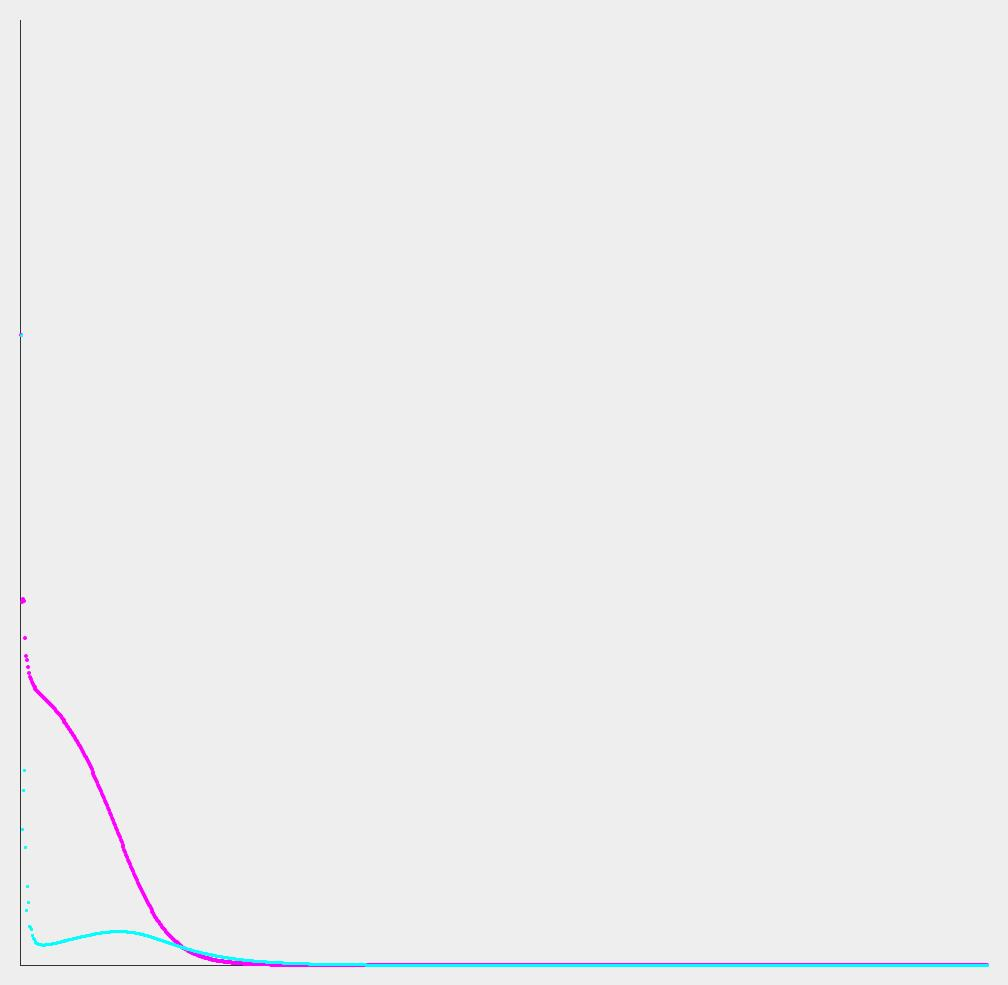
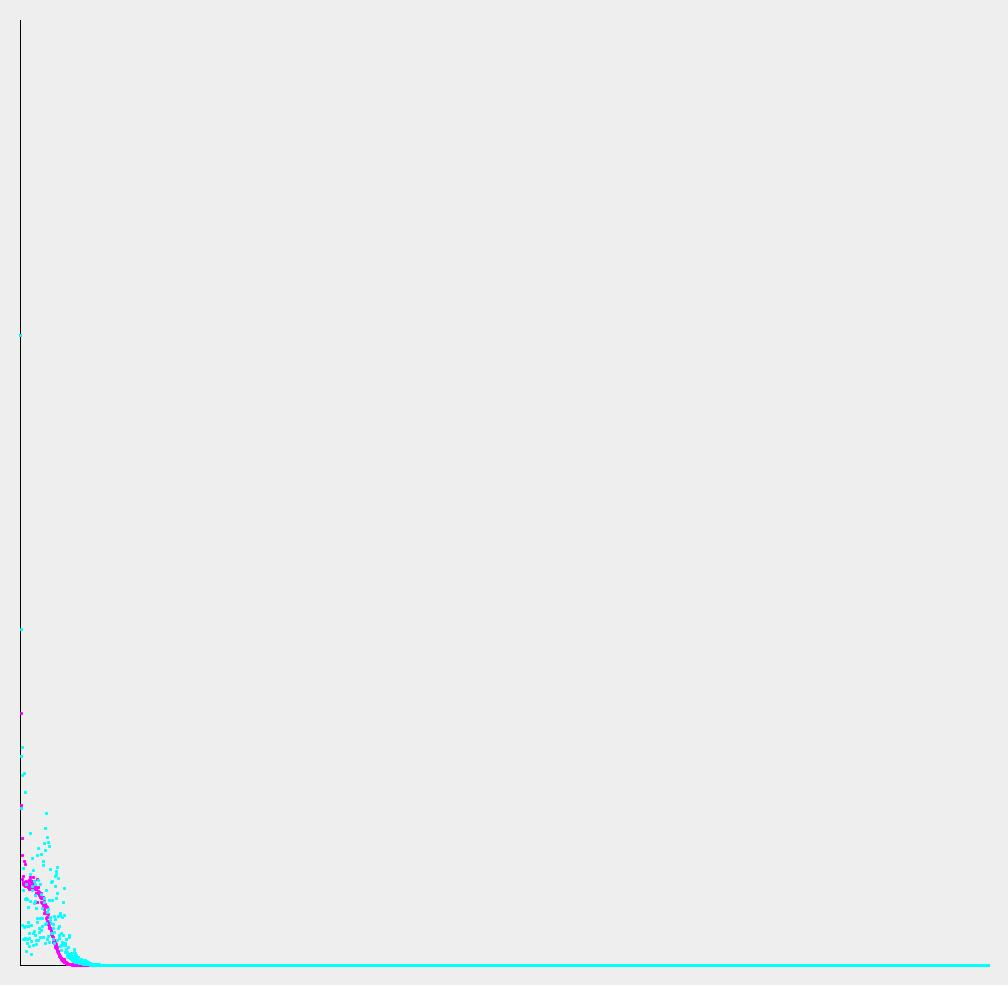
Add minibatch implementation

diff --git a/src/main/java/cz/muni/fi/network/Main.java b/src/main/java/cz/muni/fi/network/Main.java
@@ -29,8 +29,8 @@ public class Main {
 
         //    Num Inputs,  Num Hidden,  Num Outputs, Num Learning steps, Show Graph, Output image name
         MLP mlp = new MLP(1, 2, 1, 1000, true, "2",
-                //Learning rate, Use Glorot & Bengio weight init? ,  Print status frequency, Momentum influence, Frequency of decreasing learning rate, Is dropout on
-                0.15, false, 10, 0.65, 30, true);
+                //Learning rate, Use Glorot & Bengio weight init? ,  Print status frequency, Momentum influence, Frequency of decreasing learning rate, Is dropout on, Is minibatch on, Minibatch size
+                0.15, false, 10, 0.65, 30, true, true, 10);
 
         mlp.training(samples);
 
@@ -49,10 +49,20 @@ public class Main {
         samples.add(new Sample(new double[]{0, 1}, new double[]{1}));
         samples.add(new Sample(new double[]{0, 0}, new double[]{0}));
 
+        samples.add(new Sample(new double[]{1, 1}, new double[]{0}));
+        samples.add(new Sample(new double[]{1, 0}, new double[]{1}));
+        samples.add(new Sample(new double[]{0, 1}, new double[]{1}));
+        samples.add(new Sample(new double[]{0, 0}, new double[]{0}));
+
+        samples.add(new Sample(new double[]{1, 1}, new double[]{0}));
+        samples.add(new Sample(new double[]{1, 0}, new double[]{1}));
+        samples.add(new Sample(new double[]{0, 1}, new double[]{1}));
+        samples.add(new Sample(new double[]{0, 0}, new double[]{0}));
+
         //    Num Inputs,  Num Hidden,  Num Outputs, Num Learning steps, Show Graph, Output image name
-        MLP mlp = new MLP(2, 2, 1, 1000, true, "1",
-                //Learning rate, Use Glorot & Bengio weight init? ,  Print status frequency, Momentum influence, Frequency of decreasing learning rate,Is dropout on
-                0.15, false, 10, 0.5, 15, true);
+        MLP mlp = new MLP(2, 2, 1, 3000, false, "1",
+                //Learning rate, Use Glorot & Bengio weight init? ,  Print status frequency, Momentum influence, Frequency of decreasing learning rate,Is dropout on, Is minibatch on, Minibatch size
+                0.3, false, 10, 0.5, 30, false, true, 10);
 
         mlp.training(samples);
 
@@ -105,7 +115,7 @@ public class Main {
 
         for (Movie movie : movies) {
             movie.getActors().removeAll(removedActors);
-            if(removedDirectors.contains(movie.getDirector())) {
+            if (removedDirectors.contains(movie.getDirector())) {
                 movie.setDirector(null);
             }
         }
@@ -125,7 +135,7 @@ public class Main {
 
         int done = 0;
         for (Movie movie : movies) {
-            if(done++ == trainingSize) {
+            if (done++ == trainingSize) {
                 break;
             }
 
@@ -136,14 +146,14 @@ public class Main {
             for (String actorId : movie.getActors()) {
                 int i = actors.indexOf(new Person(actorId));
 
-                if(i == -1) {
+                if (i == -1) {
                     ++missingActors;
                 } else {
                     inputs[i] = 1;
                 }
             }
 
-            if(useDummyNeurons) {
+            if (useDummyNeurons) {
                 int peopleNeurons = desiredActorCount + desiredDirectorsCount;
                 for (int i = peopleNeurons; i < peopleNeurons + missingActors; i++) {
                     inputs[i] = 1;
@@ -151,13 +161,13 @@ public class Main {
             }
 
             int directorIndex = directors.indexOf(new Person(movie.getDirector()));
-            if(directorIndex == -1) {
+            if (directorIndex == -1) {
                 inputs[inputs.length - 1] = 1;
             } else {
                 inputs[desiredActorCount + directorIndex] = 1;
             }
 
-            if(!useDummyNeurons && (directorIndex == -1 || missingActors > 0)) {
+            if (!useDummyNeurons && (directorIndex == -1 || missingActors > 0)) {
                 continue;
             }
 
@@ -168,15 +178,15 @@ public class Main {
 
         //    Num Inputs,  Num Hidden,  Num Outputs, Num Learning steps, Show Graph, Output image name
         MLP mlp = new MLP(outputSize, 40, 1, 1000, true, "7",
-                //Learning rate, Use Glorot & Bengio weight init? ,  Print status frequency, Momentum influence, Frequency of decreasing learning rate, Is dropout on
-                0.2, false, 30, 0.7, 80, true);
+                //Learning rate, Use Glorot & Bengio weight init? ,  Print status frequency, Momentum influence, Frequency of decreasing learning rate, Is dropout on, Is minibatch on, Minibatch size
+                0.2, false, 30, 0.7, 80, true, true, 10);
         mlp.training(samples);
 
-        int[] diffs = new int[] {0,0,0,0};
+        int[] diffs = new int[]{0, 0, 0, 0};
 
         for (int i = trainingSize; i < movies.size(); i++) {
 
-            if(i == trainingSize) {
+            if (i == trainingSize) {
                 System.out.println("***");
                 System.out.println((movies.size() - trainingSize) + "movies not from the training set:");
                 System.out.println("***");
@@ -198,11 +208,11 @@ public class Main {
             System.out.printf("Movie : %s, rating: %.1f%n", movies.get(i).getName(), rating);
             System.out.printf("Predicted rating: %.1f%n%n", predictedRating);
 
-            if(Math.abs(rating - predictedRating) < 0.5) {
+            if (Math.abs(rating - predictedRating) < 0.5) {
                 ++diffs[0];
-            } else if(Math.abs(rating - predictedRating) < 1) {
+            } else if (Math.abs(rating - predictedRating) < 1) {
                 ++diffs[1];
-            } else if(Math.abs(rating - predictedRating) < 2) {
+            } else if (Math.abs(rating - predictedRating) < 2) {
                 ++diffs[2];
             } else {
                 ++diffs[3];
@@ -223,6 +233,6 @@ public class Main {
     }
 
     private static float percent(int x, int total) {
-        return x/(float)total * 100f;
+        return x / (float) total * 100f;
     }
 }

diff --git a/src/main/java/cz/muni/fi/network/MLP.java b/src/main/java/cz/muni/fi/network/MLP.java
@@ -5,7 +5,6 @@ import javax.swing.*;
 import java.awt.image.BufferedImage;
 import java.io.File;
 import java.io.IOException;
-import java.util.ArrayList;
 import java.util.Collections;
 import java.util.List;
 import java.util.Random;
@@ -23,9 +22,12 @@ public class MLP {
     private String imgName;
     public boolean showGraph;
     private int decLearningRateFreq;
+    private int minibatchSize;
     private double hiddenWeights;
     private double outputWeights;
     private boolean dropoutOn;
+    private boolean minibatchOn;
+    private Random r = new Random();
 
     public Layer outputLayer;
     public Layer hiddenLayer;
@@ -37,17 +39,19 @@ public class MLP {
 
     public MLP(int numInputNeurons, int numHiddenNeurons, int numOutputNeurons, int numLearningSteps, boolean showGraph, String imgName,
                double learningRate, boolean glorotBengioWeights, int printStatusFreq, double momentumInfluence, int decLearningRateFreq,
-               boolean dropoutOn) {
+               boolean dropoutOn, boolean minibatchOn, int minibatchSize) {
         System.out.println("----------------------------- NEW MLP INIT -----------------------------");
         System.out.println("----------------------------------  batch" + imgName + "  -----------------------------------");
         System.out.println("-----------------------------------  -----------------------------------");
         System.out.println("-----------------------------------  -----------------------------------");
         System.out.println("Num learning steps: " + numLearningSteps);
         System.out.println("Learning rate: " + learningRate);
+        System.out.println("Frequency of decreasing learning rate: " + decLearningRateFreq);
         System.out.println("Glorot and Bengio Weights: " + glorotBengioWeights);
         System.out.println("Momentum influence: " + momentumInfluence);
         System.out.println("Print status frequency: " + printStatusFreq);
-        System.out.println("Frequency of decreasing learning rate: " + decLearningRateFreq);
+        System.out.println("Dropout " + (dropoutOn ? "ON" : "OFF"));
+        System.out.println("Minibatch " + (minibatchOn ? "ON " + minibatchSize + " size" : "OFF"));
         if (glorotBengioWeights) {
             this.hiddenWeights = Math.sqrt(6 / (numInputNeurons + numOutputNeurons));
             this.outputWeights = Math.sqrt(6 / (numHiddenNeurons + 1));
@@ -61,6 +65,8 @@ public class MLP {
         this.momentumInfluence = momentumInfluence;
         this.dropoutOn = dropoutOn;
         this.imgName = imgName;
+        this.minibatchOn = minibatchOn;
+        this.minibatchSize = minibatchSize;
         this.decLearningRateFreq = decLearningRateFreq;
         this.learningRate = learningRate;
         this.printStatusFreq = printStatusFreq;
@@ -83,13 +89,20 @@ public class MLP {
         f = prepareGraph();
         initWeights();
         int learningStep = 0;
-        double invertedSampleCount = 1d / samples.size();
+        double invertedSampleCount = minibatchOn ? 1d / minibatchSize : 1d / samples.size();
+        double preprocessed[] = new double[outputLayer.outputs.length];
+        int batchIteration = 0;
+        List<Sample> minibatch = samples;
         do {
             resetErrorDsRespectW();
-
-            List<Sample> minibatch = new ArrayList<>(samples);
-            Collections.shuffle(minibatch, new Random(learningStep));
-            minibatch = samples.subList(0, 100);
+            if (minibatchOn) {
+                if ((batchIteration + 1) * minibatchSize > samples.size()) {
+                    Collections.shuffle(samples, r);
+                    batchIteration = 0;
+                }
+                minibatch = samples.subList(batchIteration * minibatchSize, (batchIteration + 1) * minibatchSize);
+                batchIteration++;
+            }
             for (Sample sample : minibatch) {
                 feedForward(sample.inputs, false);
                 for (int i = 0; i < outputLayer.outputs.length; i++) {
@@ -97,7 +110,6 @@ public class MLP {
                     errors[learningStep] += invertedSampleCount * Math.pow(outputLayer.errorDsRespectY[i], 2);  // --------------------------- Len na vypisy
                 }
 
-                double preprocessed[] = new double[outputLayer.outputs.length];
                 for (int j = 0; j < outputLayer.outputs.length; j++) {
                     preprocessed[j] = outputLayer.errorDsRespectY[j] * outputLayer.dTanh(outputLayer.outputs[j]);
                 }
@@ -128,7 +140,7 @@ public class MLP {
                 System.out.println(String.format("Lning rate: %.6f ", learningRate) + String.format("| Error derivative: %.8f ", errorDerivatives[learningStep]) + String.format("| Err: %.8f", errors[learningStep]));
             }
             if (showGraph && learningStep % (5 * printStatusFreq) == 0) {
-//                drawGraph();
+                drawGraph();
             }
             if (learningStep % decLearningRateFreq == 0) {
                 learningRate *= 0.99;
@@ -137,7 +149,6 @@ public class MLP {
         } while (learningStep < numLearningSteps);
         System.out.println("--------------    TRAINING FINISHED   --------------");
         drawGraphAndWriteImg(imgName);
-
     }
 
     public double[] feedForward(double[] inputs, boolean printPotentials) {
